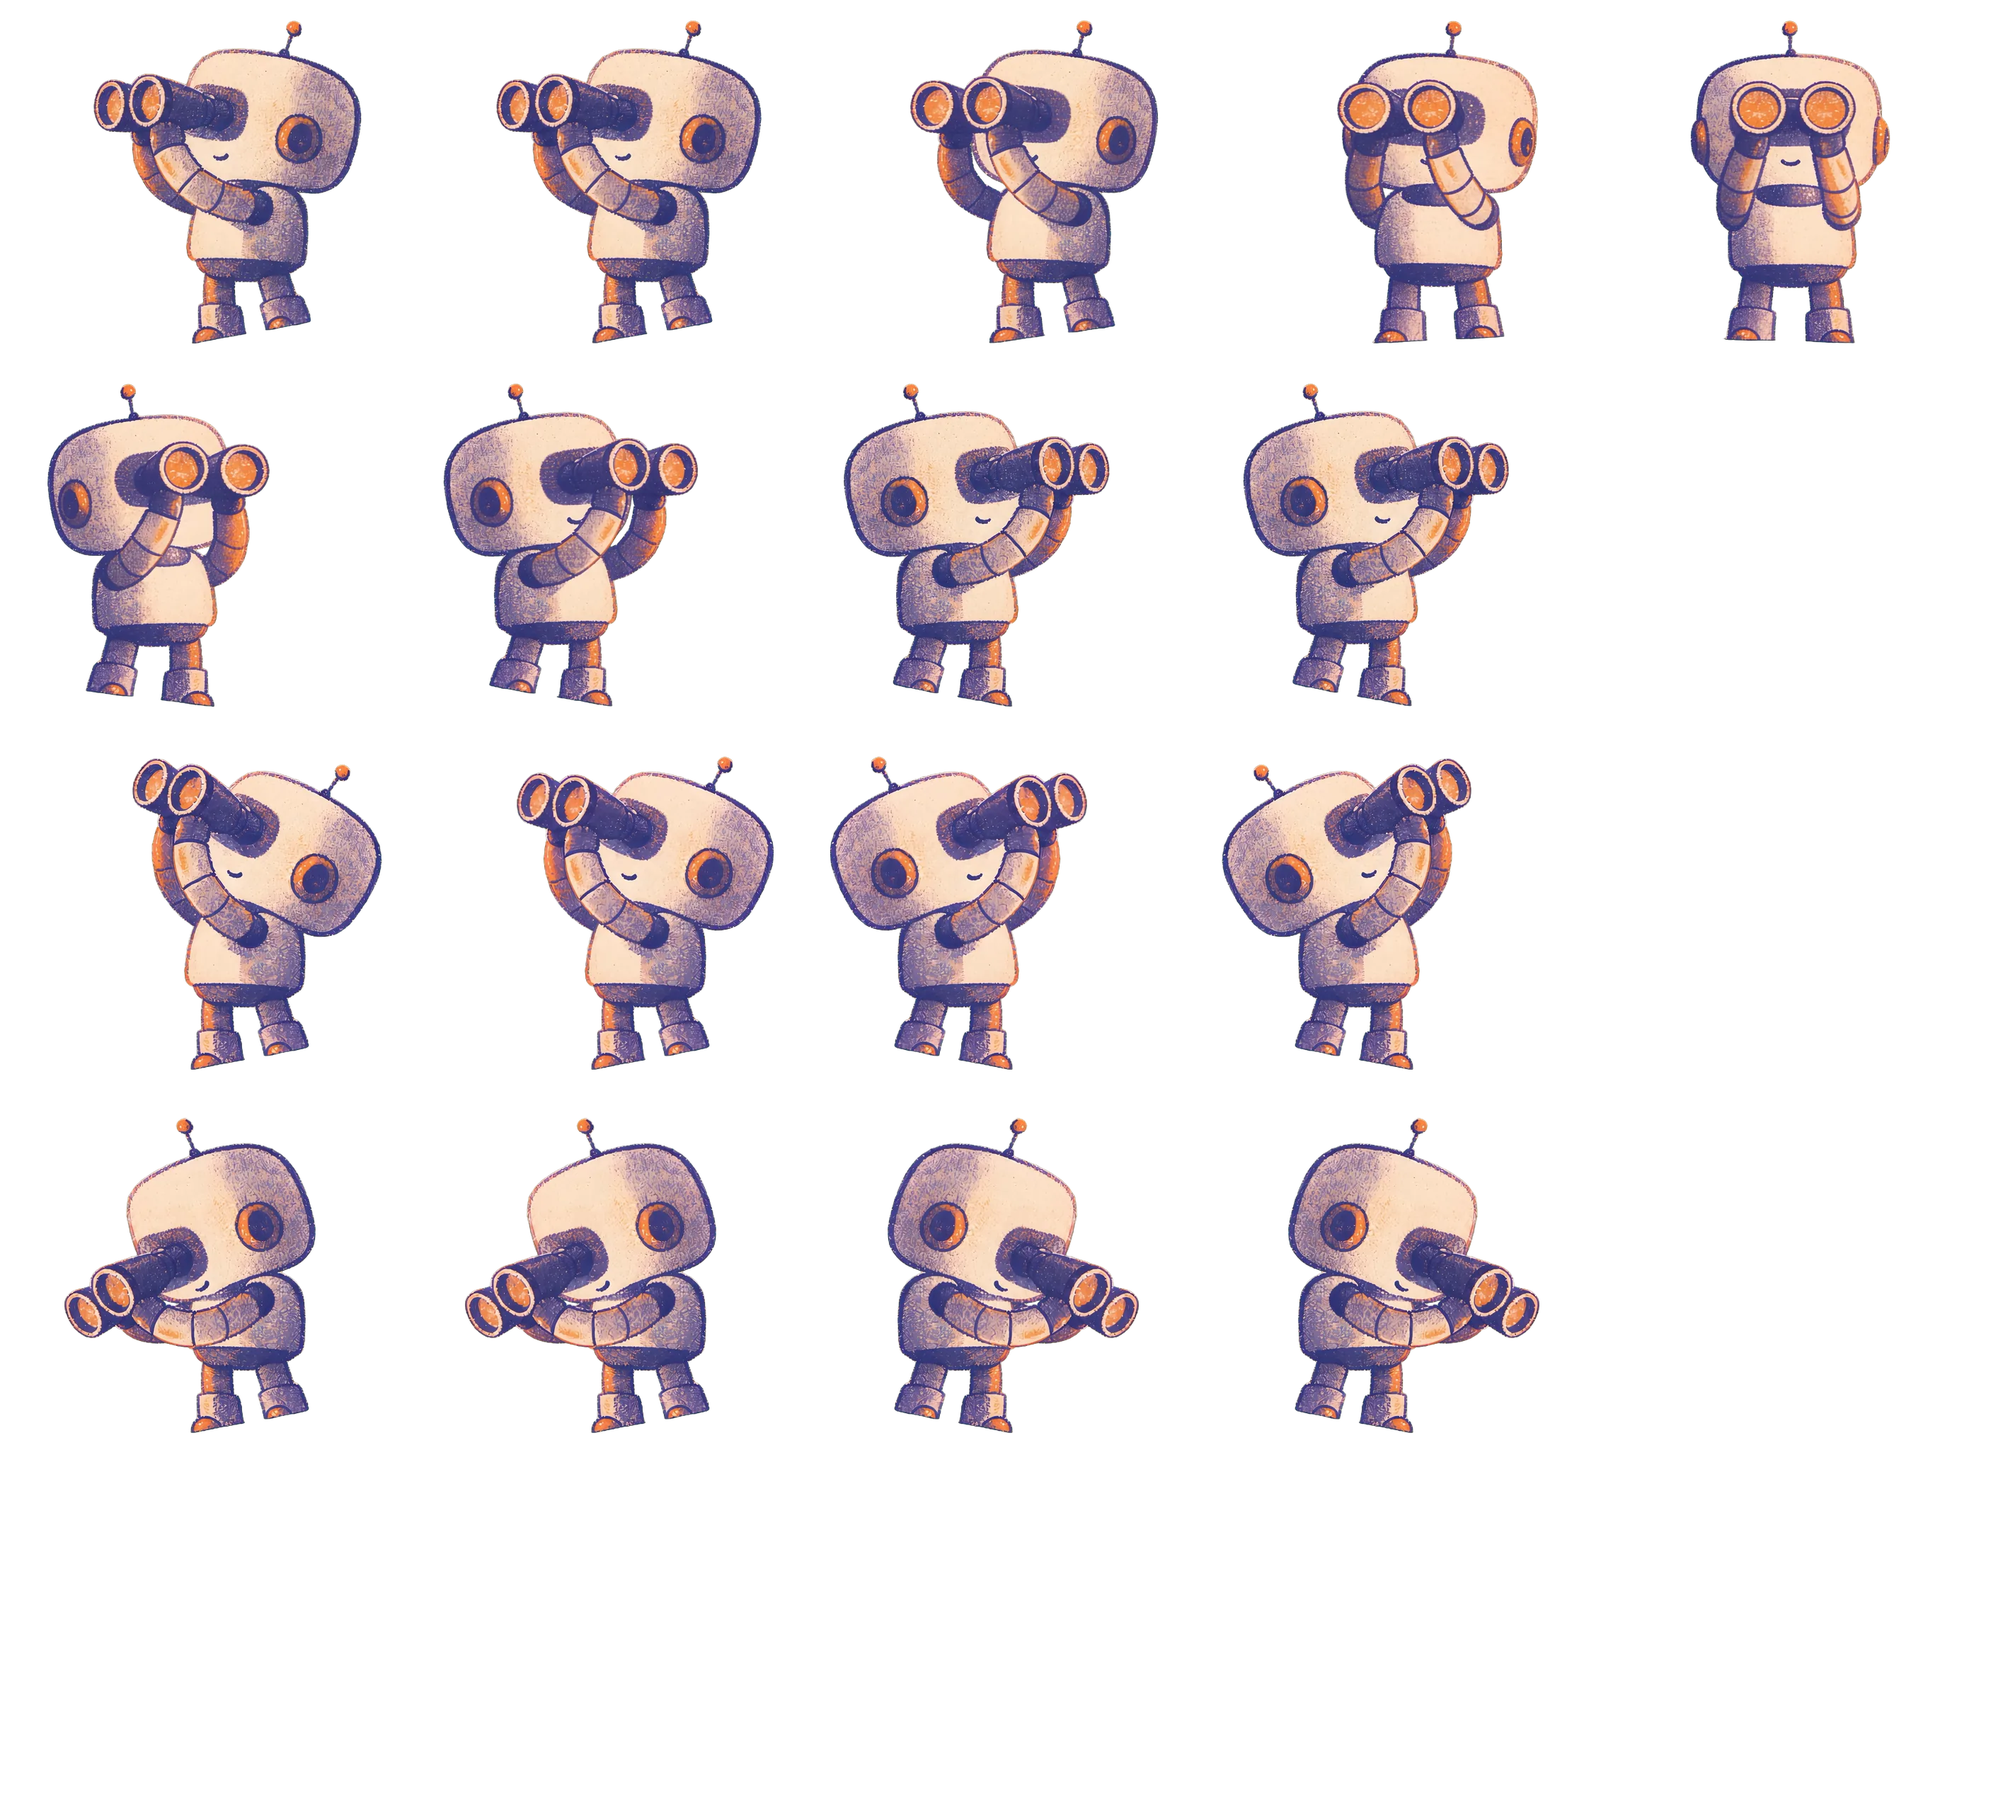
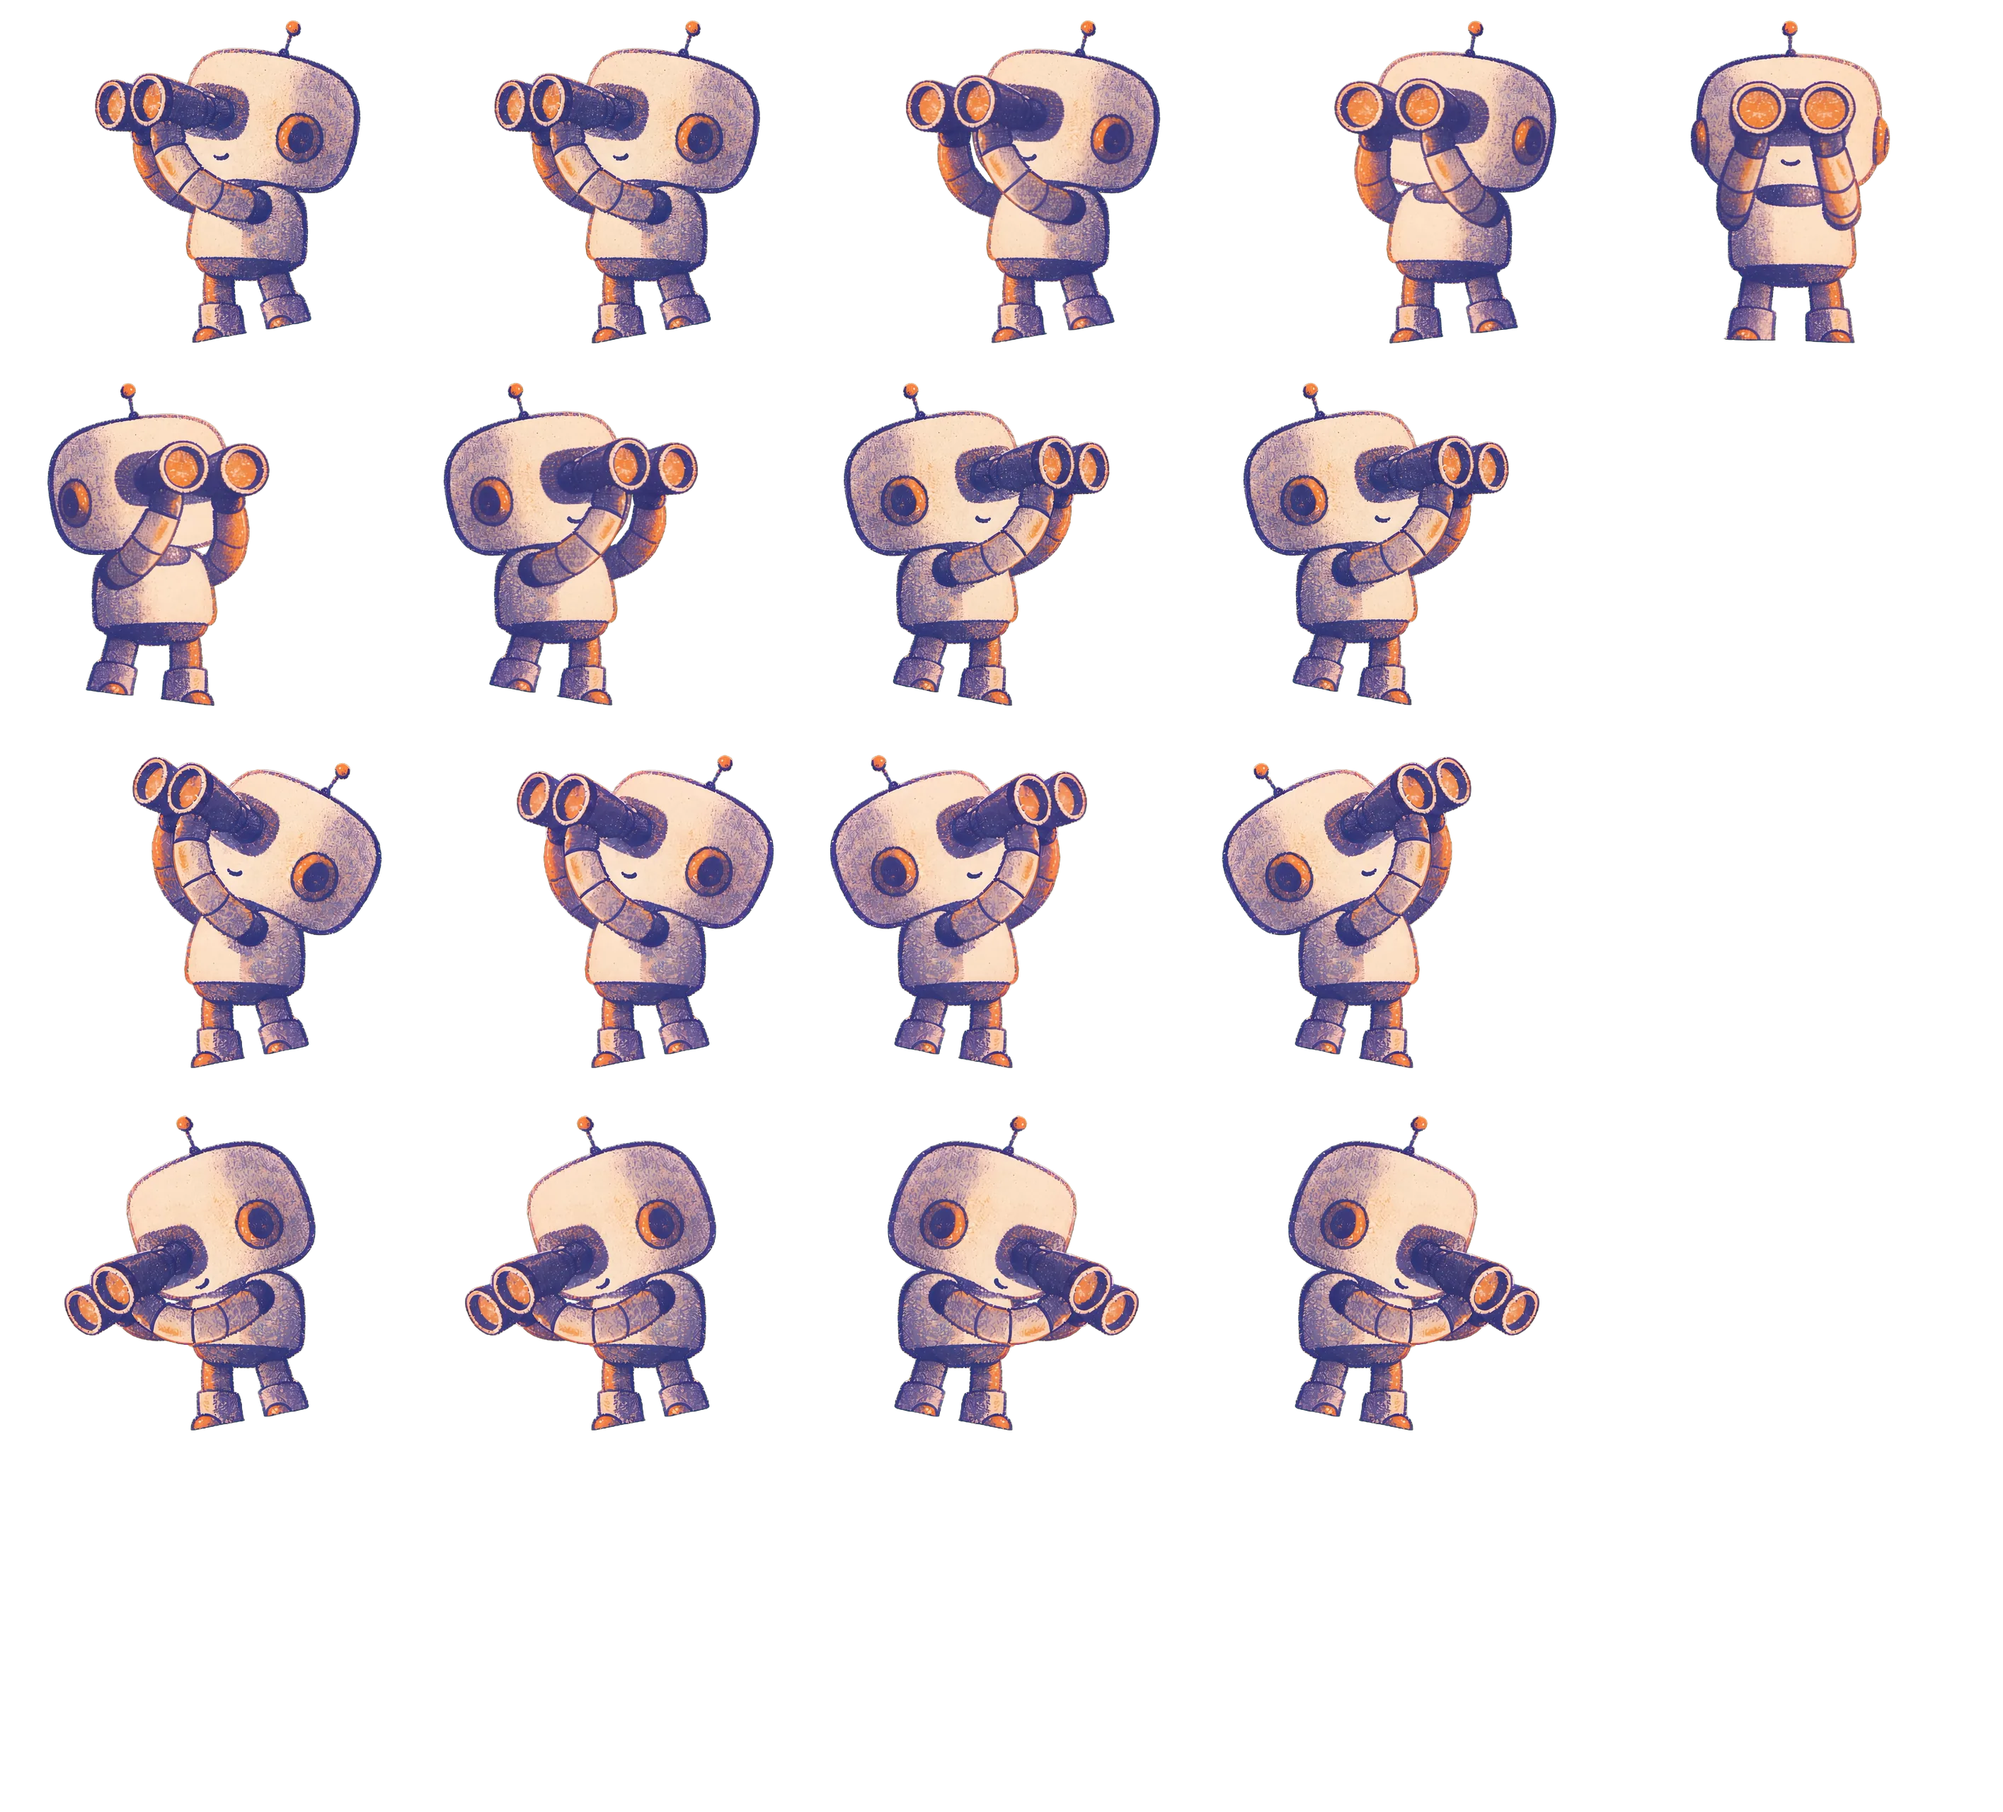
gaze: stable legs - left level poses are mirrors of the right ones
He stepped mid-sweep in the source video, so the left-facing frames carried
wandering stances and the legs slid between poses (owner: floating).
Splicing rejected; instead the left level cells are now mirrors of the
approved planted right poses. Left half legs are pixel-identical, right
half likewise; only the symmetric flip remains at the face-on crossing.

diff --git a/public/style.css b/public/style.css
@@ -98,9 +98,9 @@ html, body { overflow-x: clip; }
 .scene-robot-frames {
   position: absolute;
   left: -11.42%;
-  top: -5.41%;
+  top: -5.36%;
   width: 152.45%;
-  height: 110.80%;
+  height: 110.58%;
   background-size: 500% 500%;
   background-repeat: no-repeat;
   animation: breathe 5.2s ease-in-out infinite alternate;
